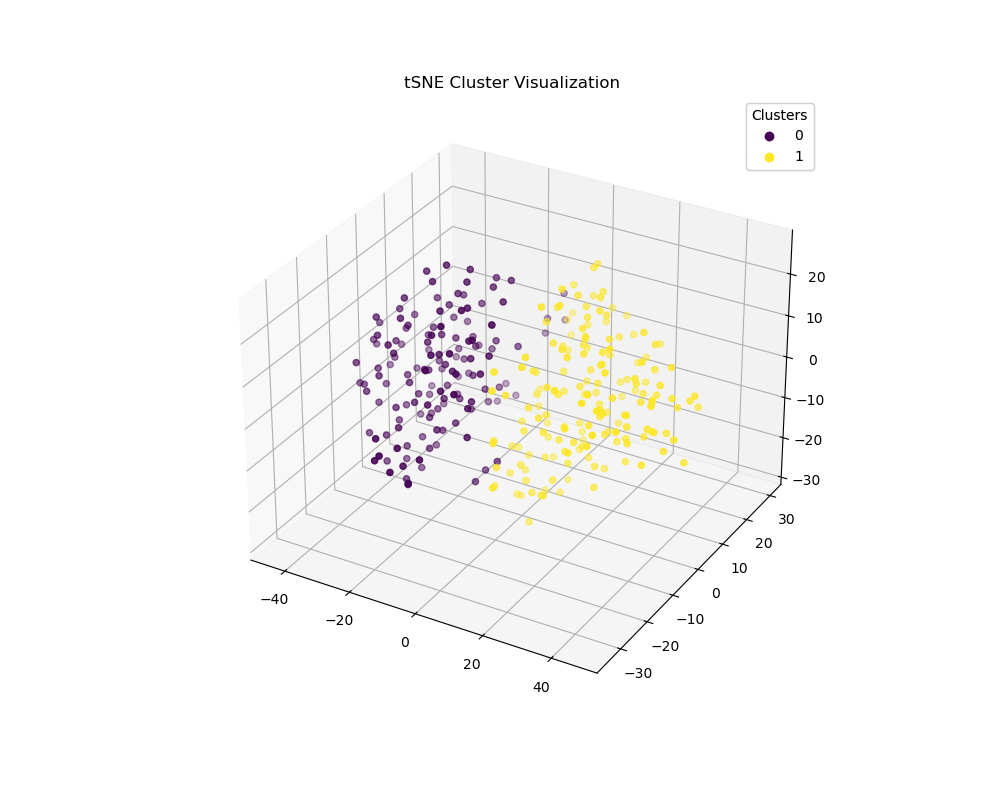
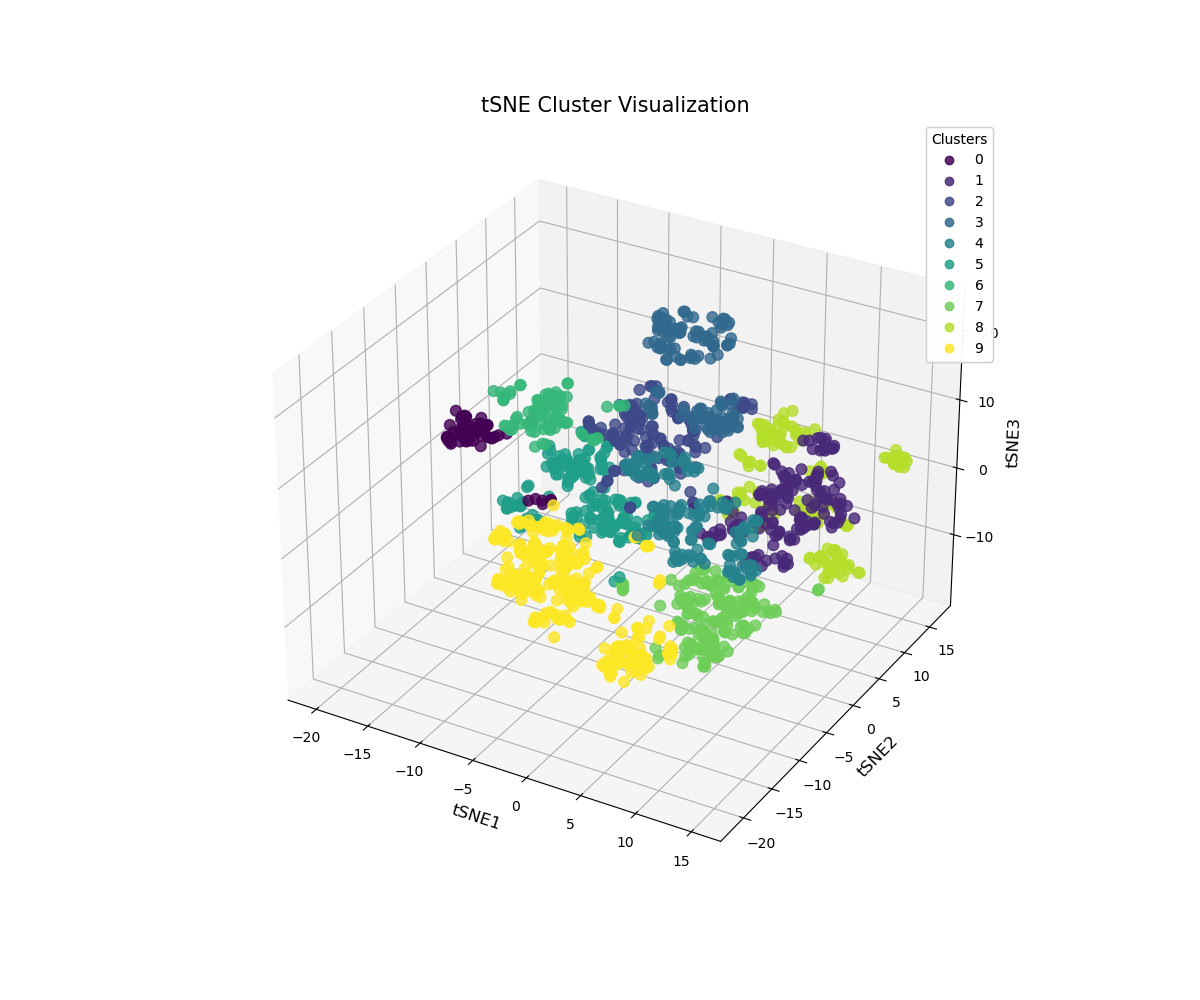
model_improved

Changed region(s): [[0.248, 0.125, 0.837, 0.875], [0.403, 0.0938, 0.62, 0.125], [0.837, 0.4062, 0.868, 0.4688]]

diff --git a/model/multi_lstm_predict.py b/model/multi_lstm_predict.py
@@ -11,7 +11,7 @@ def create_dataset(data, time_step=1):
         X.append(a)
     return np.array(X)
 
-def predict_main(predict_input_path, daily_price_save_path,daily_follower_save_path, price_predictions_save_path, prediction_followers_scaled_path, prediction_price_scaled_path, prediction_model_path, future_price_predictions_save_path, price_predictions_picture_save_path):
+def predict_main(predict_input_path, daily_price_save_path, daily_follower_save_path, price_predictions_save_path, prediction_followers_scaled_path, prediction_price_scaled_path, prediction_model_path, future_price_predictions_save_path, price_predictions_picture_save_path, price_predictions_picture_2017_2019_save_path):
     # Load the data
     df = pd.read_csv(predict_input_path)
 
@@ -109,16 +109,41 @@ def predict_main(predict_input_path, daily_price_save_path,daily_follower_save_p
     future_predictions_df.to_csv(future_price_predictions_save_path, index=False)
 
     # Visualize the price prediction
-    plt.figure(figsize=(10, 6))
+    plt.figure(figsize=(16, 8))
+    plt.title("Price Prediction")
+    plt.xlabel("Time")
+    plt.ylabel("Price")
+    plt.grid(True)  # Add grid
     plt.plot(df_grouped['tradeTime'], df_grouped['price_rolling'], label='Original Price (Rolling)')
-    plt.plot(predictions_df['tradeTime'], predictions_df['Predicted_Price'], label='Predicted Price', linestyle='--')
-    plt.plot(future_predictions_df['tradeTime'], future_predictions_df['Predicted_Price'], label='Future Predicted Price', linestyle='--')
-    plt.title('Price Prediction')
-    plt.xlabel('Time')
-    plt.ylabel('Price')
-    plt.legend()
+    plt.plot(predictions_df['tradeTime'], predictions_df['Predicted_Price'], label='Predicted Price', alpha=0.7)
+    plt.plot(future_predictions_df['tradeTime'], future_predictions_df['Predicted_Price'], label='Future Predicted Price', alpha=0.7)
+    plt.legend(loc="lower right")
     plt.savefig(price_predictions_picture_save_path)
     plt.show()
 
+    # Visualize the price prediction for 2017-2019
+    plt.figure(figsize=(16, 8))
+    plt.title("Price Prediction (2017-2019)")
+    plt.xlabel("Time")
+    plt.ylabel("Price")
+    plt.grid(True)  # Add grid
+    plt.plot(df_grouped['tradeTime'], df_grouped['price_rolling'], label='Original Price (Rolling)')
+    plt.plot(predictions_df['tradeTime'], predictions_df['Predicted_Price'], label='Predicted Price', alpha=0.7)
+    plt.plot(future_predictions_df['tradeTime'], future_predictions_df['Predicted_Price'], label='Future Predicted Price', alpha=0.7)
+    plt.xlim(pd.to_datetime("2017-01-01"), pd.to_datetime("2019-2-31"))
+    plt.ylim(50000, 80000)
+    plt.legend(loc="lower right")
+    plt.savefig(price_predictions_picture_2017_2019_save_path)
+    plt.show()
+
 if __name__ == "__main__":
-    predict_main()
+    predict_main(predict_input_path='predict_input.csv',
+                 daily_price_save_path='daily_price.csv',
+                 daily_follower_save_path='daily_follower.csv',
+                 price_predictions_save_path='price_predictions.csv',
+                 prediction_followers_scaled_path='followers_scaler.npy',
+                 prediction_price_scaled_path='price_scaler.npy',
+                 prediction_model_path='model.h5',
+                 future_price_predictions_save_path='future_price_predictions.csv',
+                 price_predictions_picture_save_path='price_predictions.png',
+                 price_predictions_picture_2017_2019_save_path='price_predictions_2017_2019.png')

diff --git a/model/kmeans.py b/model/kmeans.py
@@ -75,14 +75,18 @@ def KM_main(KM_DR_input_path, KM_ori_input_path, KM_cluster_centroids_path, KM_p
     cluster_summary = merged_df.groupby('Cluster').agg(
         num=('Cluster', 'size'),
         Incoming=('totalPrice', 'sum'),
-        livingRoom=('livingRoom', 'mean'),
-        drawingRoom=('drawingRoom', 'mean'),
-        kitchen=('kitchen', 'mean'),
-        bathRoom=('bathRoom', 'mean'),
+        # livingRoom=('livingRoom', 'mean'),
+        # drawingRoom=('drawingRoom', 'mean'),
+        # kitchen=('kitchen', 'mean'),
+        # bathRoom=('bathRoom', 'mean'),
+        floor_type=('floor_type', 'mean'),
+        renovationCondition=('renovationCondition', 'mean'),
+        elevator = ('elevator', 'mean'),
+        subway = ('subway', 'mean'),
         floor_num=('floor_num', 'mean'),
         constructionTime=('constructionTime', 'mean'),
         ladderRatio=('ladderRatio', 'mean'),
-        district=('district', 'mean'),
+        # district=('district', 'mean'),
         communityAverage=('communityAverage', 'mean'),
     ).reset_index()
 
@@ -101,20 +105,27 @@ def KM_main(KM_DR_input_path, KM_ori_input_path, KM_cluster_centroids_path, KM_p
 
     merged_df.to_csv(KM_pca_clustered_result_path, index=False)
 
-    plt.figure(figsize=(10, 8))
+    plt.figure(figsize=(12, 10))
     if type == 'PCA':
-        sns.scatterplot(x='PCA1', y='PCA2', hue='Cluster', palette='viridis', data=merged_df, legend='full')
-        plt.title('PCA Cluster Visualization')
+        sns.scatterplot(x='PCA1', y='PCA2', hue='Cluster', palette='Spectral', data=merged_df, legend='full')
+        plt.title('PCA Cluster Visualization', fontsize=15)
+        plt.xlabel('PCA1', fontsize=12)
+        plt.ylabel('PCA2', fontsize=12)
     elif type == 'MSE':
-        sns.scatterplot(x='MSE1', y='MSE2', hue='Cluster', palette='viridis', data=merged_df, legend='full')
-        plt.title('MSE Cluster Visualization')
+        sns.scatterplot(x='MSE1', y='MSE2', hue='Cluster', palette='Spectral', data=merged_df, legend='full')
+        plt.title('MSE Cluster Visualization', fontsize=15)
+        plt.xlabel('MSE1', fontsize=12)
+        plt.ylabel('MSE2', fontsize=12)
     else:
-        fig = plt.figure(figsize=(10, 8))
+        fig = plt.figure(figsize=(12, 10))
         ax = fig.add_subplot(111, projection='3d')
-        scatter = ax.scatter(merged_df['tSNE1'], merged_df['tSNE2'], merged_df['tSNE3'], c=merged_df['Cluster'], cmap='viridis')
+        scatter = ax.scatter(merged_df['tSNE1'], merged_df['tSNE2'], merged_df['tSNE3'], c=merged_df['Cluster'], cmap='viridis', s=60, alpha=0.8)
         legend1 = ax.legend(*scatter.legend_elements(), title="Clusters")
         ax.add_artist(legend1)
-        plt.title('tSNE Cluster Visualization')
+        ax.set_xlabel('tSNE1', fontsize=12)
+        ax.set_ylabel('tSNE2', fontsize=12)
+        ax.set_zlabel('tSNE3', fontsize=12)
+        ax.set_title('tSNE Cluster Visualization', fontsize=15)
     
     plt.savefig(KM_pca_cluster_visualization_path)
     plt.show()

diff --git a/tool/dimension_reduce.py b/tool/dimension_reduce.py
@@ -22,7 +22,7 @@ def tsne_dimension_reduction(data, components=2):
     return reduced_data
 
 # Random sample of the data 1/1000
-def random_sample(data, sample_size=0.001):
+def random_sample(data, sample_size=0.005):
     # Calculate the number of samples to select
     num_samples = int(data.shape[0] * sample_size)
     
@@ -53,15 +53,22 @@ def DR_main(input_path, output_path, type='PCA'):
         print("Error converting 'constructionTime' to float. Check data for non-numeric values.")
         return
 
-    categorical_columns = ['floor_type', 'renovationCondition', 'buildingStructure', 'elevator', 'fiveYearsProperty', 'subway']
+    categorical_columns = ['buildingStructure', 'fiveYearsProperty', 'livingRoom', 'drawingRoom', 'kitchen', 'bathRoom', 'district']
     df = pd.get_dummies(df, columns=categorical_columns, drop_first=True)
 
     columns_of_interest = [
-        'id', 'livingRoom', 'drawingRoom', 'kitchen', 'bathRoom', 'floor_num', 
-        'constructionTime', 'ladderRatio', 'district', 'communityAverage', 'totalPrice'
+        'id', 'floor_num', 'elevator', 'subway', 'floor_type', 'renovationCondition',
+        'constructionTime', 'ladderRatio', 'communityAverage', 'totalPrice'
     ]
 
+    # Extend columns_of_interest with generated dummy variable columns
     columns_of_interest.extend([col for col in df.columns if any(prefix in col for prefix in categorical_columns)])
+
+    # Check which columns are missing
+    missing_columns = [col for col in columns_of_interest if col not in df.columns]
+    if missing_columns:
+        print(f"Warning: The following columns are missing from the DataFrame: {missing_columns}")
+        columns_of_interest = [col for col in columns_of_interest if col in df.columns]
 
     data = df[columns_of_interest]
 

diff --git a/main_predict.py b/main_predict.py
@@ -10,5 +10,6 @@ predict_follower_save_path = './result/data/daily_followers.csv'
 price_predictions_save_path = './result/data/price_predictions_average.csv'
 future_price_predictions_save_path = './result/data/future_price_predictions.csv'
 price_predictions_picture_save_path = './result/picture/price_prediction_average.png'
+price_predictions_picture_2017_2019_save_path = './result/picture/price_prediction_average_2017_2019.png'
 
-predict_main(predict_input_path, predict_daily_prices_save_path, predict_follower_save_path, price_predictions_save_path, prediction_followers_scaled_path, prediction_price_scaled_path, prediction_model_path, future_price_predictions_save_path, price_predictions_picture_save_path)
+predict_main(predict_input_path, predict_daily_prices_save_path, predict_follower_save_path, price_predictions_save_path, prediction_followers_scaled_path, prediction_price_scaled_path, prediction_model_path, future_price_predictions_save_path, price_predictions_picture_save_path, price_predictions_picture_2017_2019_save_path)
